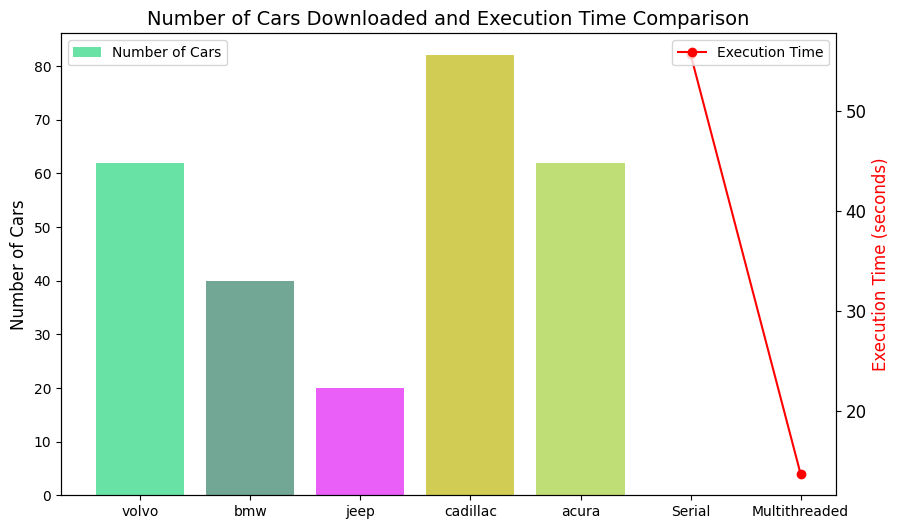
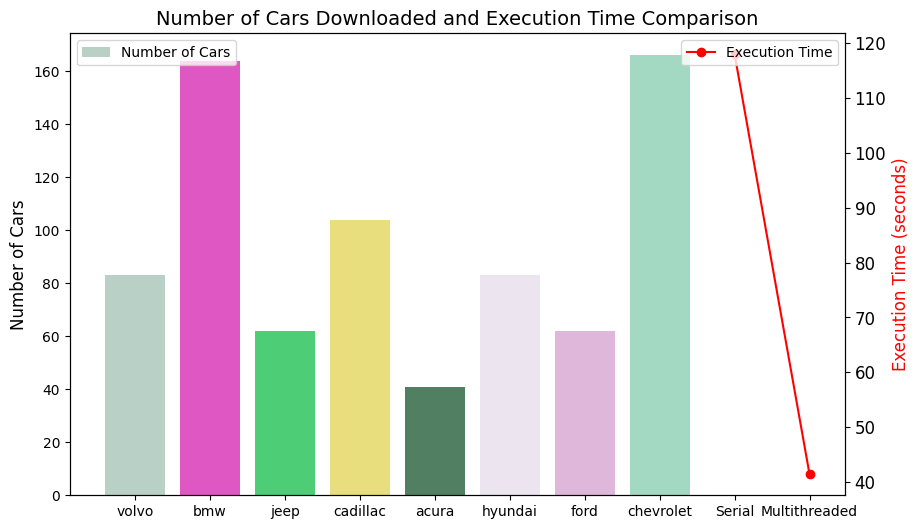
update

diff --git a/cars_scraper.py b/cars_scraper.py
@@ -219,11 +219,11 @@ class CarsScraper:
 # Example usage
 # more categories >> 'acura','audi','cadillac','chevrolet','dodge','ford','honda','hyundai','infiniti','jaguar','bugatti','aston_martin','lexus'
         
-categories = ['volvo', 'bmw', 'jeep', 'cadillac','acura',]
+categories = ['volvo', 'bmw', 'jeep', 'cadillac','acura','hyundai','ford','chevrolet']
 url = "https://www.cars.com/shopping/results/?makes[]=volvo&maximum_distance=all&stock_type=all&zip="
 
 # Example with max_pages
-max_pages = {'volvo': 3, 'bmw': 2, 'jeep': 1, 'cadillac': 4,'acura':3,}
+max_pages = {'volvo': 4, 'bmw': 8, 'jeep': 3, 'cadillac': 5,'acura':2,'hyundai':4,'ford':3,'chevrolet':8}
 
 scraper = CarsScraper(url, categories, max_pages)
 
